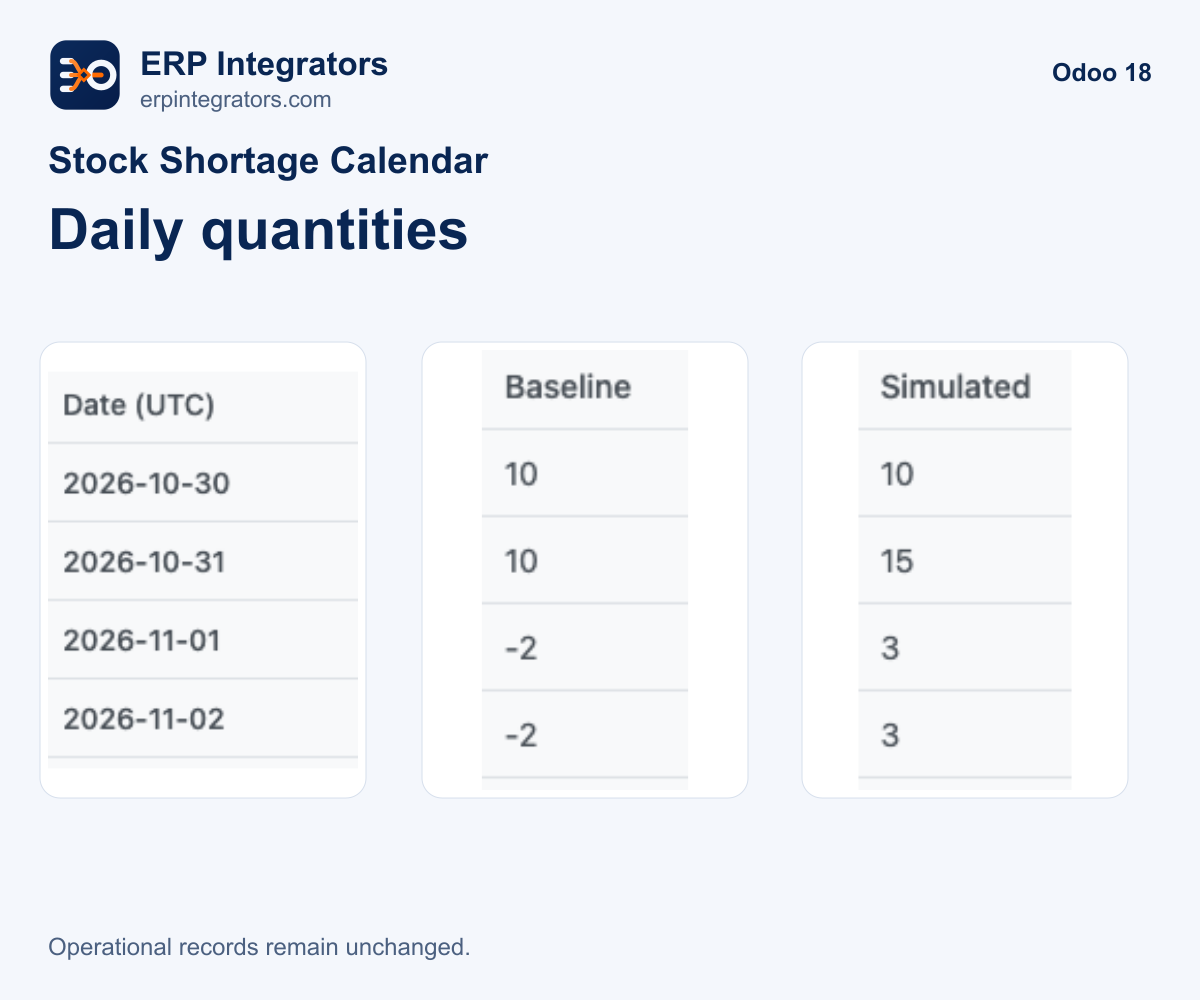
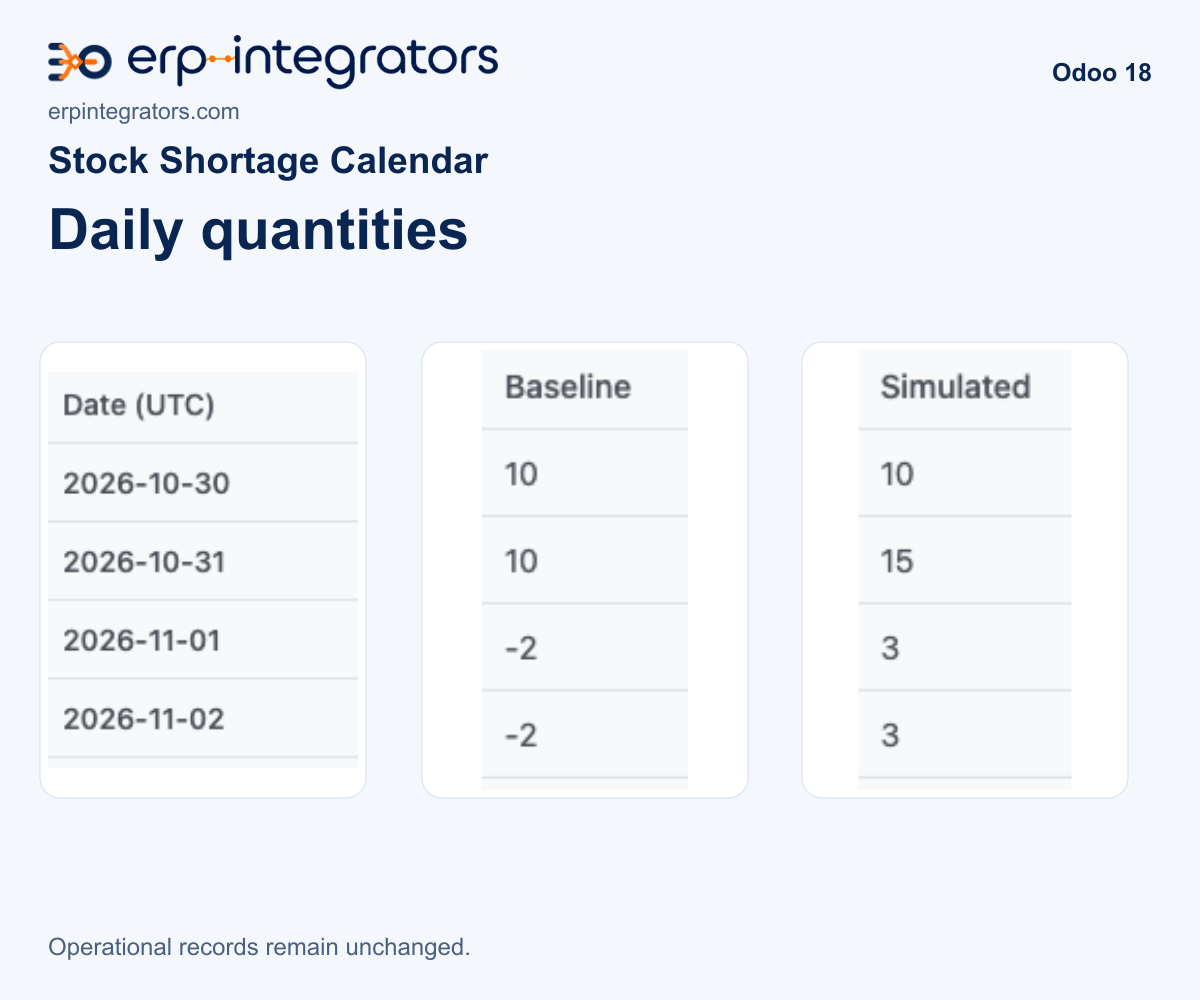
Apply the shared marketplace cover and connected wordmark

Changed region(s): [[0.0308, 0.031, 0.4317, 0.124]]

diff --git a/erpintegrators_daily_stock_matrix/static/description/index.html b/erpintegrators_daily_stock_matrix/static/description/index.html
@@ -1,5 +1,5 @@
 <section class="container py-4" style="font-family:Arial,sans-serif;color:#092653;max-width:1100px;margin:0 auto;padding:24px">
-  <div class="d-flex align-items-center mb-4" style="color:#092653"><img src="logo.png" width="64" height="64" alt="ERP Integrators" class="mr-3"/><div><p class="mb-1" style="font-size:24px;font-weight:600">ERP Integrators</p><p class="mb-0">erpintegrators.com | Solvync Inc.</p></div></div>
+  <div class="mb-4"><img src="logo.png" width="450" height="56" alt="ERP Integrators" style="display:block;width:450px;max-width:100%;height:auto"/><p class="mt-2 mb-0">erpintegrators.com | Solvync Inc.</p></div>
   <h1>Stock Shortage Calendar</h1>
   <p>Review daily stock forecasts, assign shortage follow-ups, compare saved changes and preview receipt timing.</p>
   <p>Odoo 18 Community and Enterprise | Inventory required | LGPL-3</p>
